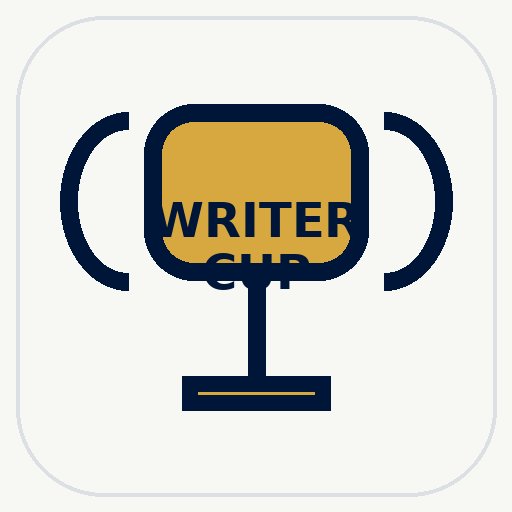
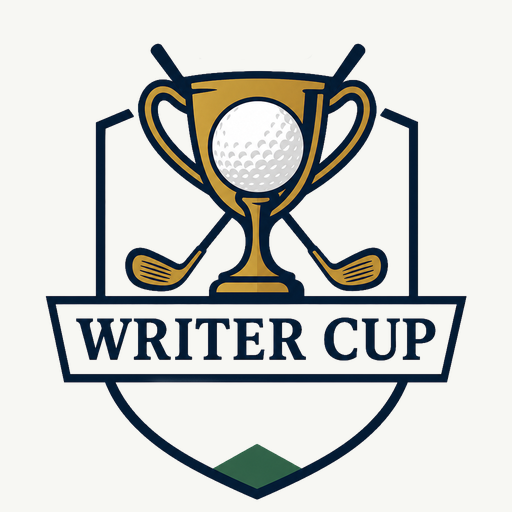
Add files via upload

diff --git a/postcup.css b/postcup.css
@@ -1,1 +1,4 @@
 :root{color-scheme:light;font-family:system-ui,sans-serif;color:#001638;background:#f7f7f3}*{box-sizing:border-box}body{margin:0}header{padding:24px;background:#001638;color:white;display:flex;justify-content:space-between;gap:16px}header a{color:white}header span,.eyebrow{letter-spacing:.14em;font-weight:800;font-size:.75rem}.eyebrow{color:#987027}main{max-width:1000px;margin:auto;padding:28px 18px}h1{font-size:clamp(2.1rem,7vw,3.5rem);margin:12px 0}h2{margin-top:0}.card{background:white;border:1px solid #dce0e4;border-radius:20px;padding:24px;margin:22px 0}.result{background:#001638;color:white}.result .eyebrow{color:#e0bc6b}.result strong{font-size:2.4rem}p{line-height:1.6}button,select,input,textarea{font:inherit}button{background:#001638;color:white;border:0;border-radius:9px;padding:13px 16px;margin:6px 4px 6px 0;cursor:pointer}button:disabled{opacity:.5;cursor:wait}input,select,textarea{display:block;width:100%;padding:12px;border:1px solid #bdc6d1;border-radius:9px;background:white;color:#001638;margin:8px 0 16px}label{display:block;font-weight:650}textarea{resize:vertical}table{width:100%;border-collapse:collapse;font-size:.85rem}th,td{text-align:left;padding:10px;border-bottom:1px solid #ddd;white-space:nowrap}.scroll{overflow-x:auto}.note{background:#fff4d9;padding:16px;border-radius:10px}summary{cursor:pointer;font-weight:700;padding:15px 0}.album{display:grid;grid-template-columns:repeat(auto-fit,minmax(180px,1fr));gap:18px}.album figure{margin:0}.album img{width:100%;border-radius:12px;cursor:zoom-in}.album figcaption{padding:8px 0;overflow-wrap:anywhere}dialog{max-width:95vw;max-height:95vh;border:0;border-radius:15px}dialog img{max-width:85vw;max-height:75vh;object-fit:contain}#status{white-space:pre-line}.muted{color:#647084}[hidden]{display:none!important}@media print{header,.controls,#albumSection,#archiveSelect,label:has(#archiveSelect),#status{display:none!important}body{background:white}main{padding:0}h1{font-size:24px}.card{break-inside:avoid;padding:12px;margin:12px 0}table{font-size:9px}td,th{padding:4px}.scroll{overflow:visible}.result{background:white;color:#001638}}
+
+.header-home{display:inline-flex;align-items:center;gap:10px;white-space:nowrap}
+.header-home img{width:42px;height:42px;object-fit:contain;background:#f7f7f3;border-radius:7px;padding:2px}

diff --git a/newcup.html b/newcup.html
@@ -1,4 +1,4 @@
-<!doctype html><html lang="en"><head><meta charset="utf-8"><meta name="viewport" content="width=device-width,initial-scale=1"><meta name="theme-color" content="#001638"><title>Writer Cup · Event Setup</title><link rel="stylesheet" href="./postcup.css?v=10-1"></head><body><header><a href="./">← Writer Cup</a><span>TOURNAMENT SETUP</span></header><main>
+<!doctype html><html lang="en"><head><meta charset="utf-8"><meta name="viewport" content="width=device-width,initial-scale=1"><meta name="theme-color" content="#001638"><title>Writer Cup · Event Setup</title><link rel="stylesheet" href="./postcup.css?v=10-logo"></head><body><header><a href="./" class="header-home"><img src="./assets/writer-cup-default.png" alt="" />← Writer Cup</a><span>TOURNAMENT SETUP</span></header><main>
 <p class="eyebrow">THE NEXT CHAPTER</p><h1>Event Setup</h1><p>Prepare the next Cup without changing any completed scorecard. Use the current event’s scorer PIN.</p>
 <p id="status" role="status" aria-live="polite">Loading the current Cup…</p><section class="card" id="active" hidden></section>
 <section class="card" id="desk" hidden><h2 id="formTitle">Create next year's Cup</h2><p id="formHelp"></p>

diff --git a/postcup.html b/postcup.html
@@ -1,6 +1,6 @@
 <!doctype html>
-<html lang="en"><head><meta charset="utf-8"><meta name="viewport" content="width=device-width,initial-scale=1"><meta name="theme-color" content="#001638"><title>Writer Cup · History</title><link rel="stylesheet" href="./postcup.css?v=10-1"></head>
-<body><header><a href="./">← Writer Cup</a><span>THE CLUBHOUSE</span></header><main>
+<html lang="en"><head><meta charset="utf-8"><meta name="viewport" content="width=device-width,initial-scale=1"><meta name="theme-color" content="#001638"><title>Writer Cup · History</title><link rel="stylesheet" href="./postcup.css?v=10-logo"></head>
+<body><header><a href="./" class="header-home"><img src="./assets/writer-cup-default.png" alt="" />← Writer Cup</a><span>THE CLUBHOUSE</span></header><main>
 <p class="eyebrow">THE RESULTS. THE STORIES. THE EVIDENCE.</p><h1>Writer Cup history</h1><p>Every Cup gets its own scorecard and memories.</p>
 <label>Choose a Cup <select id="archiveSelect" aria-label="Choose archived Cup"></select></label>
 <p id="status" role="status" aria-live="polite">Loading archived rounds…</p><div id="archive"></div>

diff --git a/index.html b/index.html
@@ -9,14 +9,14 @@
   <meta name="apple-mobile-web-app-title" content="Writer Cup" />
   <title>Writer Cup</title>
   <link rel="manifest" href="./manifest.json" />
-  <link rel="apple-touch-icon" href="./assets/icon-192.png" />
-  <link rel="stylesheet" href="./styles.css?v=10-1" />
+  <link rel="apple-touch-icon" href="./assets/icon-192.png?v=10-logo" />
+  <link rel="stylesheet" href="./styles.css?v=10-logo" />
 </head>
 <body>
   <div class="app-shell">
     <header class="topbar">
       <button class="brand-button" data-route="home" aria-label="Writer Cup home">
-        <img src="./assets/writer-cup-generic.svg" alt="Writer Cup logo" />
+        <img src="./assets/writer-cup-default.png" alt="Writer Cup logo" />
       </button>
       <div class="topbar-copy">
         <strong>WRITER CUP</strong>
@@ -40,6 +40,6 @@
   <script src="https://cdn.jsdelivr.net/npm/@supabase/supabase-js@2"></script>
   <script src="./config.js"></script>
   <script src="./data.js"></script>
-  <script src="./app.js?v=10-1"></script>
+  <script src="./app.js?v=10-logo"></script>
 </body>
 </html>

diff --git a/app.js b/app.js
@@ -738,7 +738,7 @@ function openPhotoModal(url,name){
 function homeView(){
   const c=countdownParts(),live=currentLiveStatus();
   return `<section class="hero">
-      <img class="hero-logo" src="./assets/writer-cup-generic.svg" alt="" />
+      <img class="hero-logo" src="./assets/writer-cup-default.png" alt="" />
       <div class="eyebrow">${escapeHTML(tournament.venue||"COURSE TO BE ANNOUNCED")}</div><h1>THE WRITER CUP<br>${eventYear()}</h1>
       <p>${escapeHTML(new Date(tournament.date).toLocaleString('en-AU',{timeZone:'Australia/Sydney',weekday:'long',day:'numeric',month:'long',year:'numeric',hour:'numeric',minute:'2-digit'}))} · ${escapeHTML(tournament.tees||"Tee TBC")} tees</p>
       <div class="countdown" id="countdown"><div><strong>${c.days}</strong><small>Days</small></div><div><strong>${c.hours}</strong><small>Hours</small></div><div><strong>${c.mins}</strong><small>Mins</small></div><div><strong>${c.secs}</strong><small>Secs</small></div></div>

diff --git a/sw.js b/sw.js
@@ -1,5 +1,5 @@
-const CACHE = "writer-cup-v10-1";
-const ASSETS = ["./","./index.html","./styles.css?v=10-1","./app.js?v=10-1","./manifest.json","./config.js","./data.js","./assets/writer-cup-generic.svg","./assets/icon-192.png","./assets/icon-512.png"];
+const CACHE = "writer-cup-v10-logo";
+const ASSETS = ["./","./index.html","./styles.css?v=10-logo","./app.js?v=10-logo","./manifest.json","./config.js","./data.js","./assets/writer-cup-default.png","./assets/icon-192.png","./assets/icon-512.png","./newcup.html","./postcup.html","./postcup.css?v=10-logo"];
 self.addEventListener("install", e => e.waitUntil(caches.open(CACHE).then(c => c.addAll(ASSETS)).then(() => self.skipWaiting())));
 self.addEventListener("activate", e => e.waitUntil(Promise.all([
   caches.keys().then(keys => Promise.all(keys.filter(k => k !== CACHE).map(k => caches.delete(k)))),
